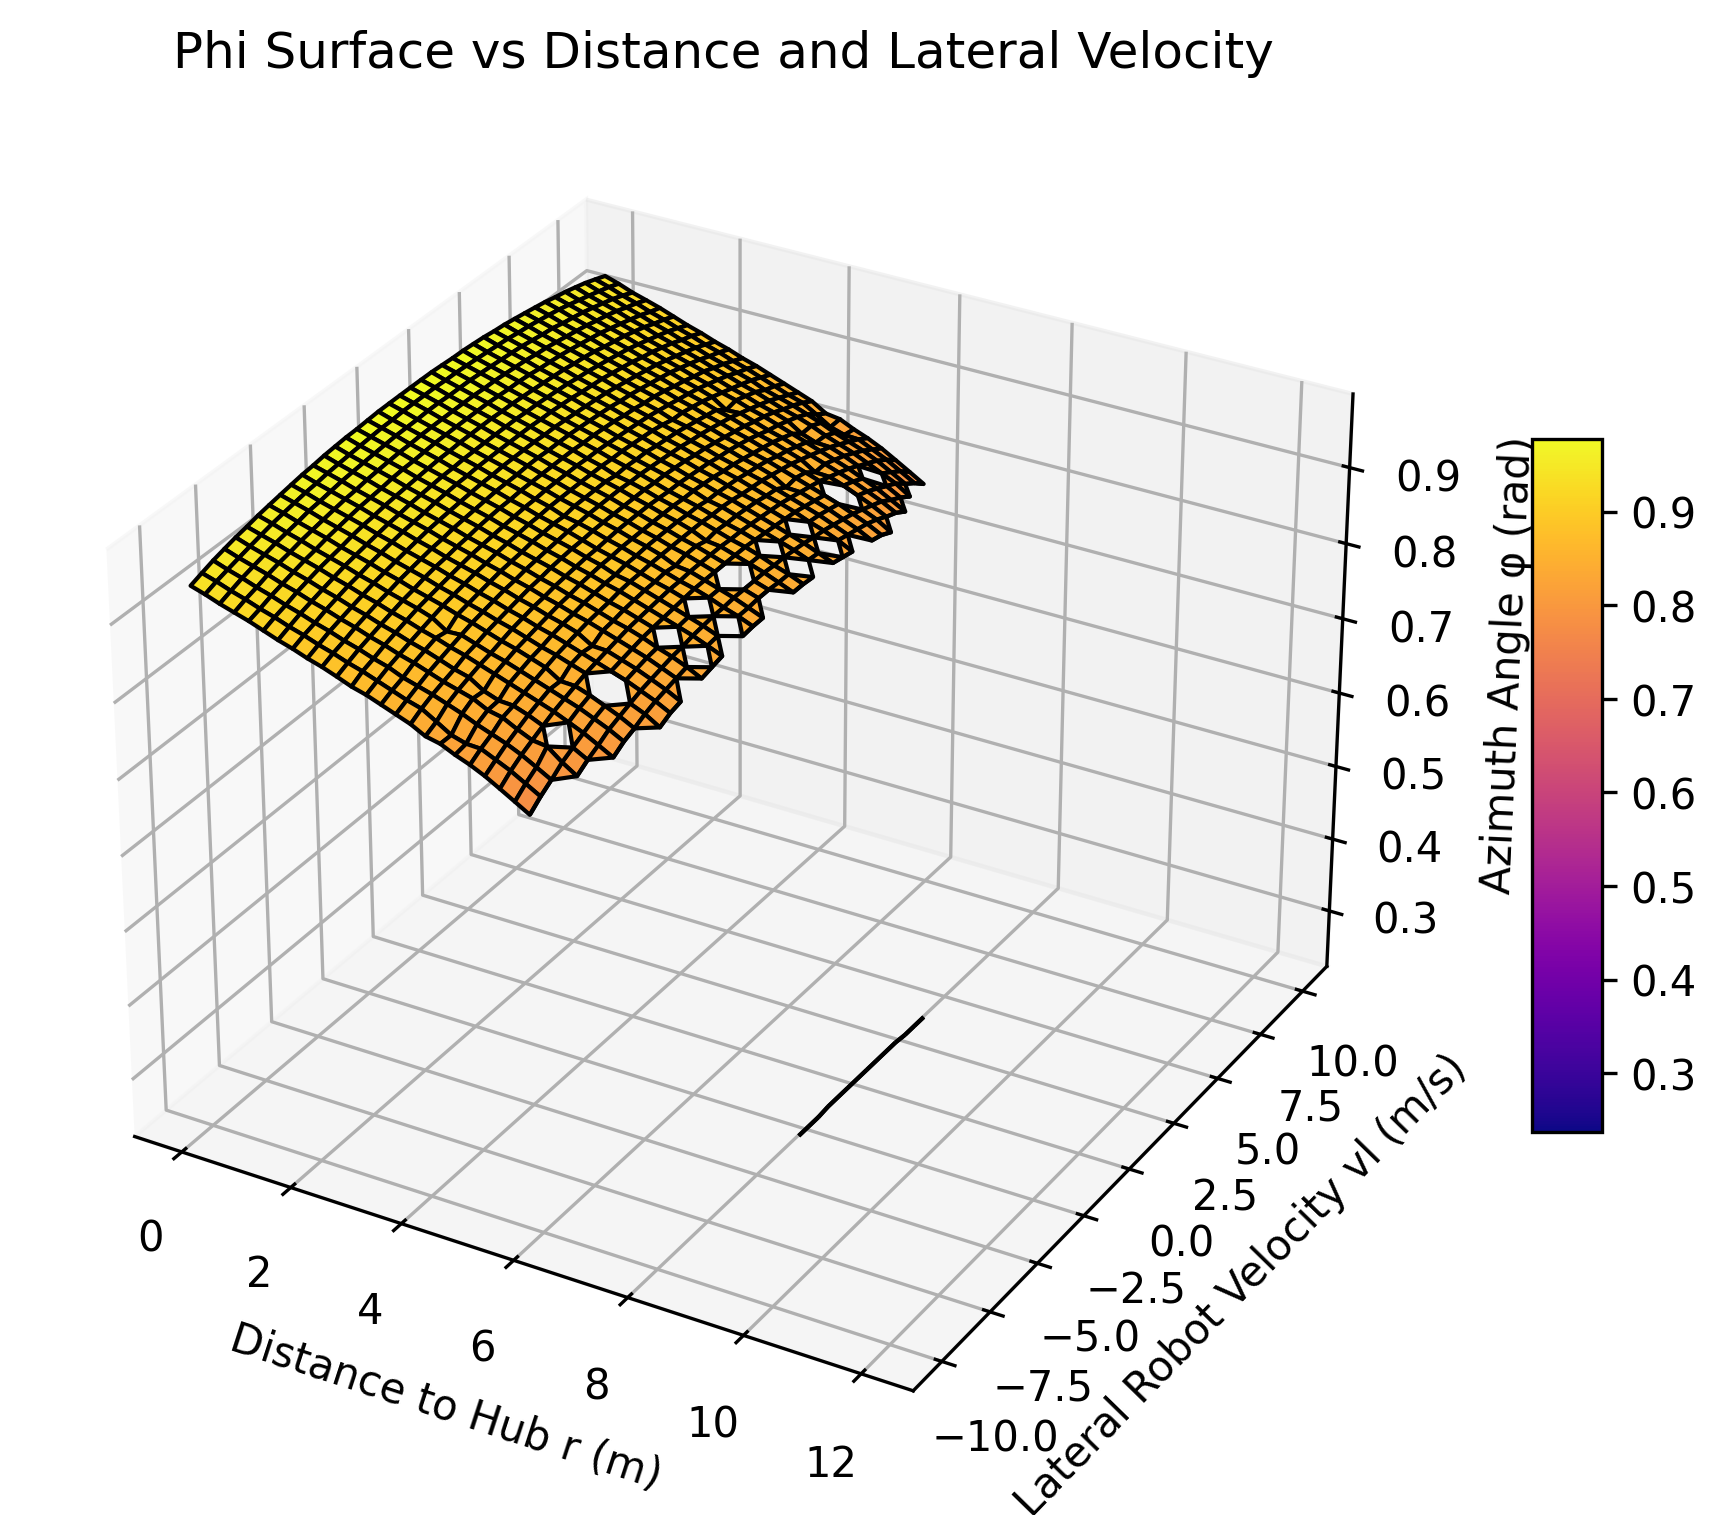
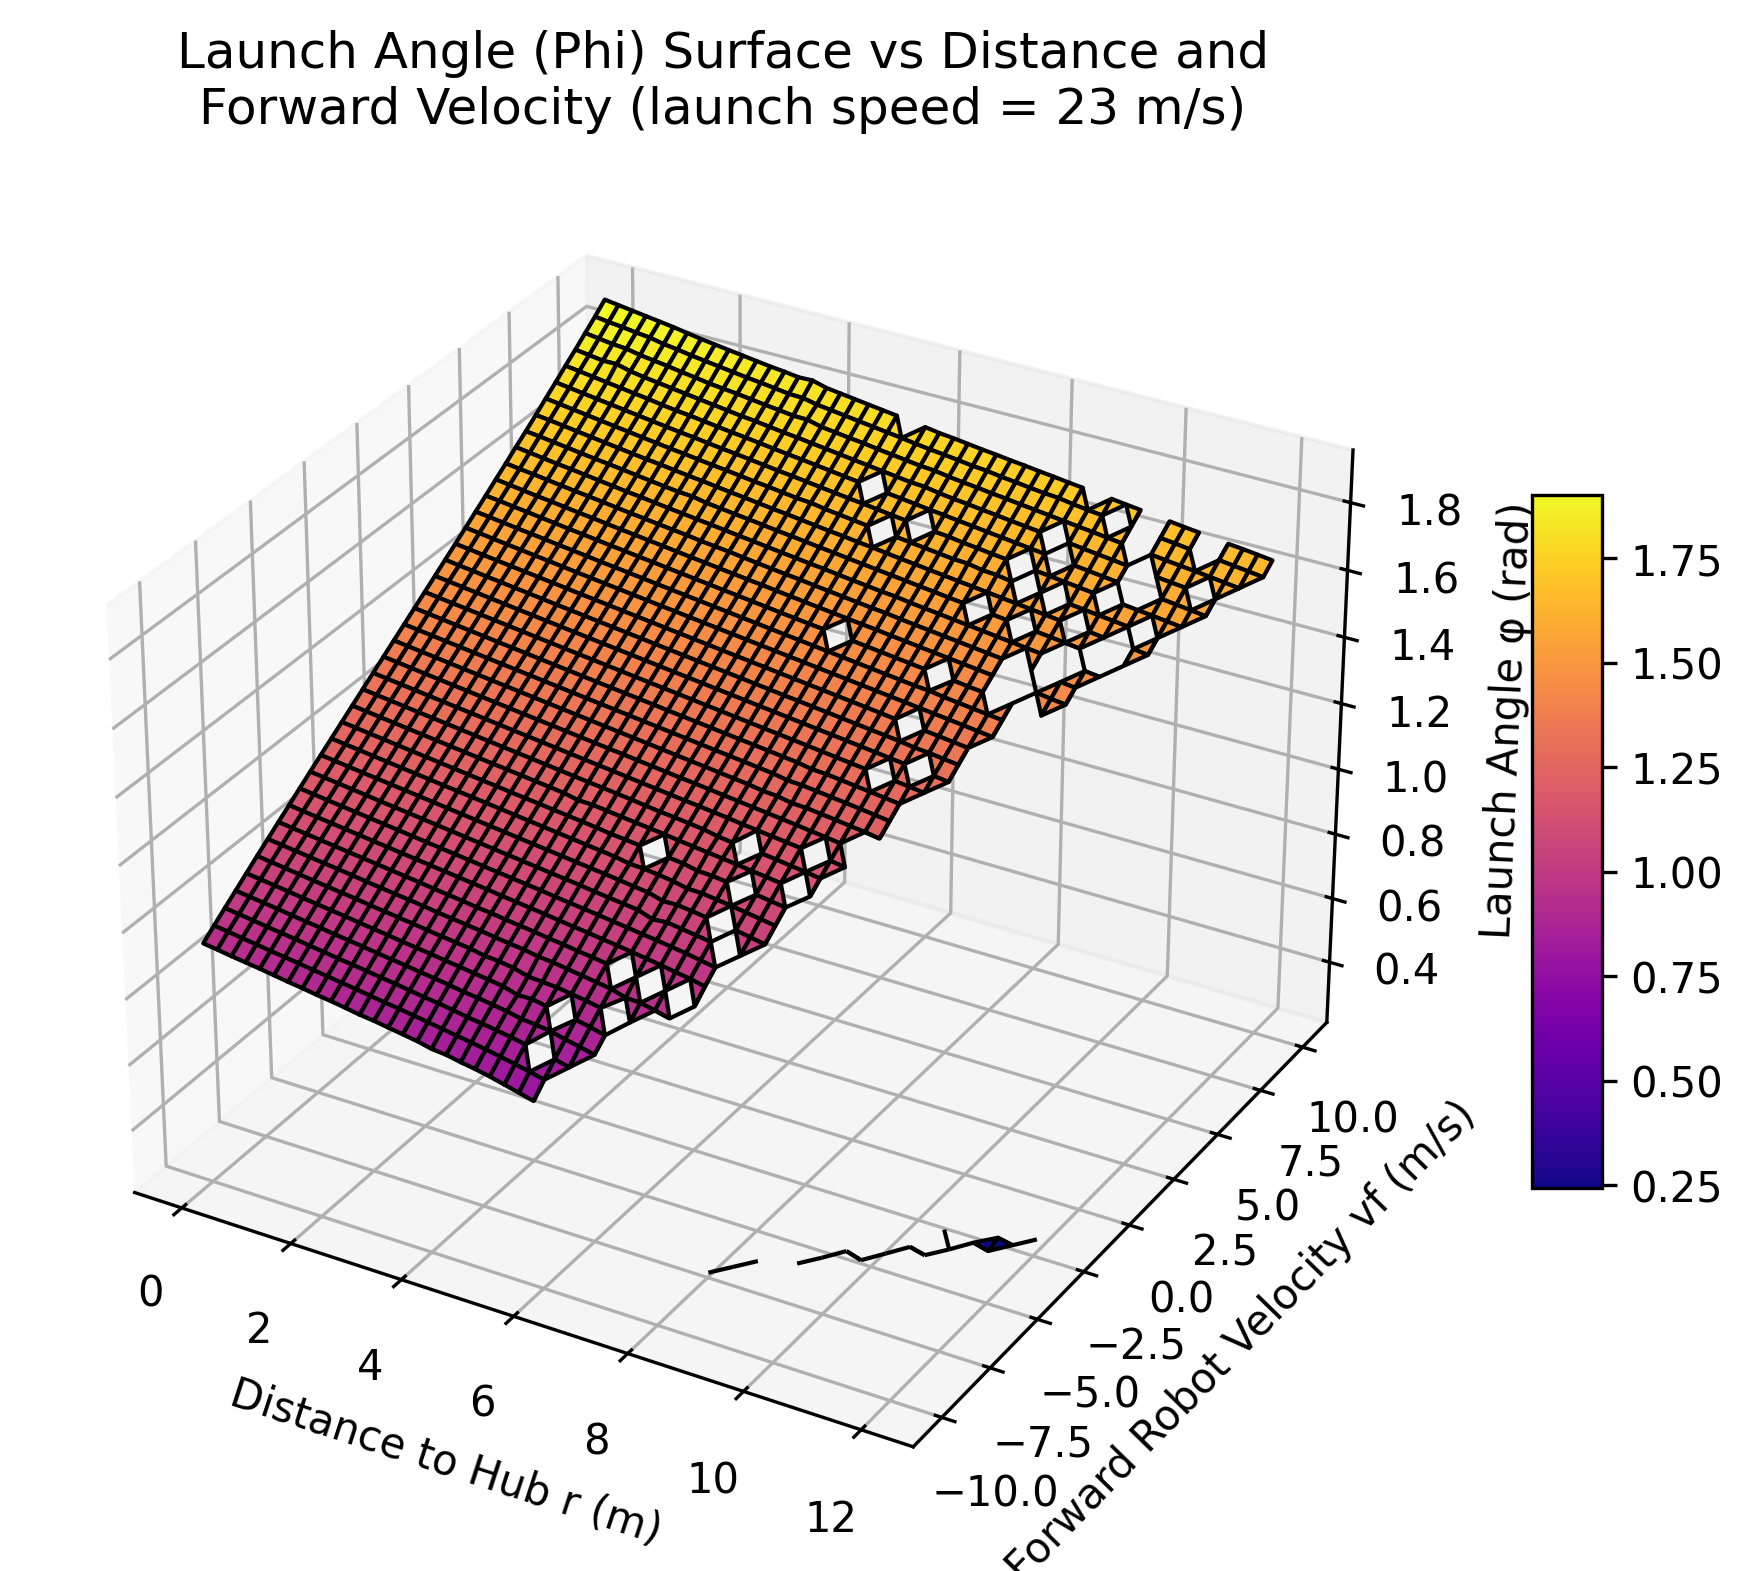
added surfaces

diff --git a/src/main/ProjectileMotionSim/FuelPath.py b/src/main/ProjectileMotionSim/FuelPath.py
@@ -4,11 +4,14 @@ import ProjectilePath as pp
 import FuelClearance as fc
 from numpy import array, rad2deg, linalg, pi
 from tabulate import tabulate
-import time 
+import time
+
+def angle_to_900__hood_rot(angle_deg, hood_min, hood_max, hood_rest_angle_deg):
+    return hood_min + (hood_max - ((hood_rest_angle_deg-angle_deg) / 1.36))
 
 # define targets and initial condition guesses
-xt = 4.445
-yt = 2
+xt = 3.89382
+yt = 1.8288
 zt = 0
 
 # define robot's initial velocities and Fuel initial spin
@@ -19,14 +22,14 @@ vz_robot = 0
 v_mag_robot = linalg.norm(array([vx_robot, vy_robot, vz_robot]))
 
 # define initial solution guesses
-vxi0 = 8.083
-vyi0 = 8.083
-vzi0 = 8.083
-omegai0 = 94
+vxi0 = 8.5
+vyi0 = 8.5
+vzi0 = 8.5
+omegai0 = 100
 
 # define fuel object and fuel_solver object
 fuel = pp.Projectile(0.0762, 0.226796)
-fuel_solver = pp.ProjectileSolver(fuel, xt, yt, zt, vxi0, vyi0, vzi0, omegai0, vx_frame=vx_robot, vy_frame=vy_robot, vz_frame=vz_robot, fix_speed=False, fix_omega=True, lm_iters=15, sim_end_time=5, dt=0.01, clearance_func=fc.hub_clearance, theta_bounds=(0, 0), phi_bounds=(0.785, 1.309))
+fuel_solver = pp.ProjectileSolver(fuel, xt, yt, zt, vxi0, vyi0, vzi0, omegai0, vx_frame=vx_robot, vy_frame=vy_robot, vz_frame=vz_robot, fix_speed=True, fix_omega=True, lm_iters=20, sim_end_time=5, dt=0.01, clearance_func=fc.hub_clearance, phi_bounds=(0.785, 1.309), theta_bounds=(0, 0))
 
 # solve for valid inputs and time the solver
 start = time.perf_counter()
@@ -47,11 +50,12 @@ table = [
     ["Total vx (m/s)", fuel_solver.vx + vx_robot],
     ["Total vy (m/s)", fuel_solver.vy + vy_robot],
     ["Total vz (m/s)", fuel_solver.vz + vz_robot],
-    ["Theta (deg)", rad2deg(fuel_solver.theta)],
-    ["Phi (deg)", rad2deg(fuel_solver.phi)],
+    ["Azimuthal Angle Theta (deg)", rad2deg(fuel_solver.theta)],
+    ["Launch Angle, Phi (deg)", rad2deg(fuel_solver.phi)],
     ["Final X (m)", sx_list[-1]],
     ["Final Y (m)", sy_list[-1]],
     ["Final Z (m)", sz_list[-1]],
+    ["900 Hood Motor Rotations", angle_to_900__hood_rot(rad2deg(fuel_solver.phi), -6, 22, 75)]
 ]
 
 print(tabulate(table, headers=["Parameter", "Value"], tablefmt="rounded_grid"))

diff --git a/src/main/ProjectileMotionSim/ShooterSurfaces/PlotShooterSurfaces.py b/src/main/ProjectileMotionSim/ShooterSurfaces/PlotShooterSurfaces.py
@@ -19,7 +19,7 @@ surf1 = ax1.plot_surface(R, VL, theta_slice, cmap='viridis', edgecolor='k')
 ax1.set_xlabel('Distance to Hub r (m)')
 ax1.set_ylabel('Lateral Robot Velocity vl (m/s)')
 ax1.set_zlabel('Azimuthal Angle θ (rad)')
-ax1.set_title('Theta Surface vs Distance and Lateral Velocity')
+ax1.set_title('Azimuthal Angle (Theta) Surface vs Distance and\nLateral Velocity (launch speed = 23 m/s)')
 fig1.colorbar(surf1, ax=ax1, shrink=0.5, aspect=10)
 fig1.savefig("theta_surface.png", dpi=300, bbox_inches='tight') # save plot 1
 
@@ -33,7 +33,7 @@ surf2 = ax2.plot_surface(R, VF, phi_slice, cmap='plasma', edgecolor='k')
 ax2.set_xlabel('Distance to Hub r (m)')
 ax2.set_ylabel('Forward Robot Velocity vf (m/s)')
 ax2.set_zlabel('Launch Angle φ (rad)')
-ax2.set_title('Phi Surface vs Distance and Forward Velocity')
+ax2.set_title('Launch Angle (Phi) Surface vs Distance and\nForward Velocity (launch speed = 23 m/s)')
 fig2.colorbar(surf2, ax=ax2, shrink=0.5, aspect=10)
 fig2.savefig("phi_surface.png", dpi=300, bbox_inches='tight') # save plot 2
 

diff --git a/src/main/ProjectileMotionSim/FuelClearance.py b/src/main/ProjectileMotionSim/FuelClearance.py
@@ -2,7 +2,7 @@ import numpy as np
 
 # clearance for Hub in 2026 FRC game
 def hub_clearance(vel_approx_tlist, vx_list, vy_list, vz_list, speedf, pos_approx_tlist, sx_list, sy_list, sz_list, omegaf): # solver will pass all these parameters, not all are used
-    hub_height = 2 # 2 m, the target y
+    hub_height = 1.8288 # 6ft 6in, the target y, height of the Hub
     hub_half_diag = 0.5 # half diagonal distance from center of hub to corner
     fuel_diameter = 0.1524 
     extra_tolerance = 0.2 
